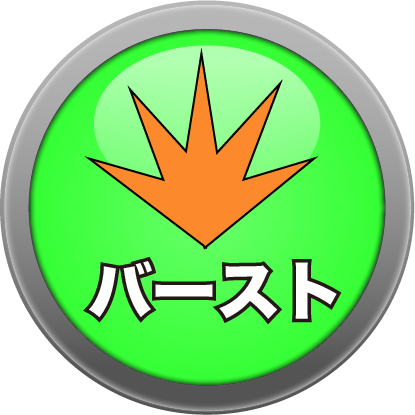
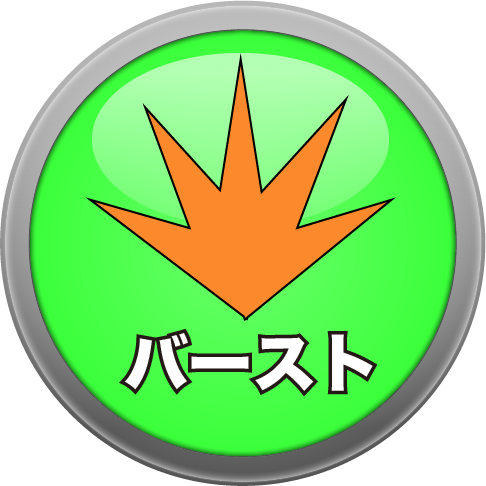
バーストボタン画像を差し替えた

Changed region(s): [[0.0578, 0.0578, 0.9542, 0.9542], [0.3759, 0.9831, 0.6361, 1.0], [0.8096, 0.8675, 0.8386, 0.8964]]

diff --git a/src/js/game-object/burst-button/view/burst-button-view.js b/src/js/game-object/burst-button/view/burst-button-view.js
@@ -13,10 +13,10 @@ import type {GameObjectAction} from "../../../action/game-object-action";
 import {HUDUIScale} from "../../../hud-scale/hud-scale";
 
 /** キャンバスサイズ */
-const CANVAS_SIZE = 1024;
+const CANVAS_SIZE = 512;
 
 /** 全体のスケール */
-const GROUP_SCALE = 0.3 * 1.2;
+const GROUP_SCALE = 0.3;
 
 /** 左パディング */
 const PADDING_LEFT = 90;
@@ -61,7 +61,7 @@ export class BurstButtonView {
     });
 
     this._overlap = circleButtonOverlap({
-      radius: 200,
+      radius: 240,
       segments: 32,
       listener: param.listener,
       onButtonPush: ()=> {
